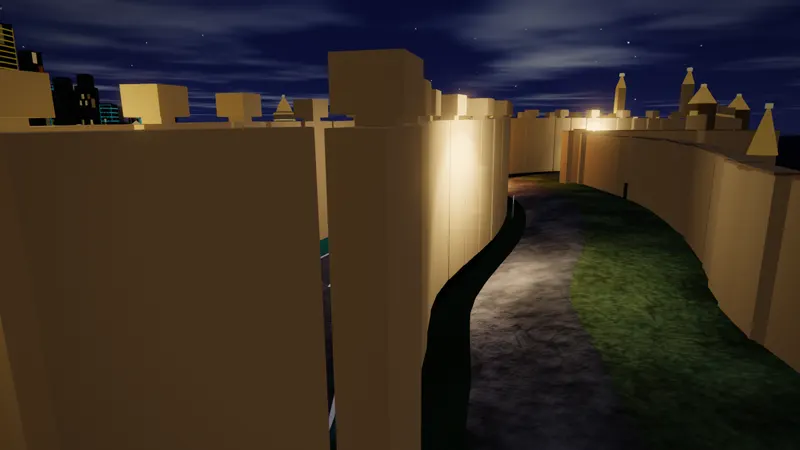
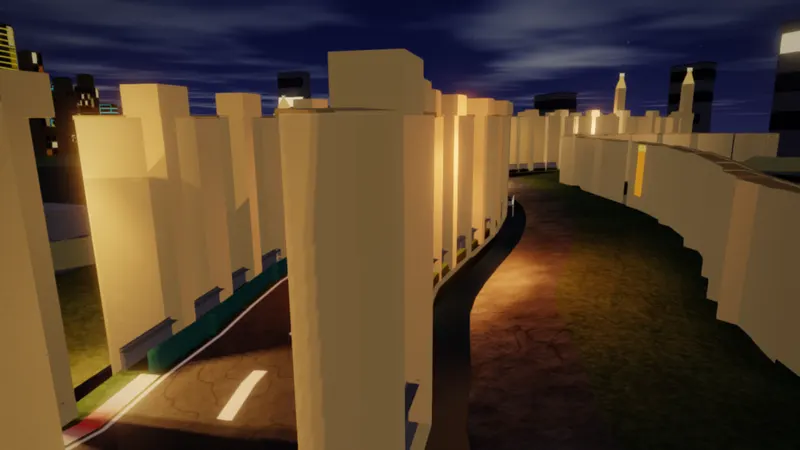
select: ship the re-shot stills per the #5223 decision; five circuits keep today's still
Decision (supersedes 565c425's "NOT APPROVED"):
https://github.com/brycejmurrin/f1-game/issues/5223#issuecomment-6759430378

- imola, estoril, watkins_glen, baku: today's 800 px still restored from the
  deploy tip, no 2x file (re-shot frame blocked by a tree or wall; #5342).
- zolder: today's still, no 2x file (300x150 capture; #5343).
- js/ui/select-screen.js STILL_1X_ONLY: those five get no srcset, so the
  phone makes one request, not a 404 then the 800 px file.
- tests/unit/hero-still-density.test.mjs: source pins replaced by VM runs of
  showStill / stillFiles; fails when a circuit has no still or a non-800x450
  one (a 300x150 capture), or when the folder and STILL_1X_ONLY disagree.

Claude-Session: https://claude.ai/code/session_01BEw9UyDojMy

diff --git a/js/ui/select-screen.js b/js/ui/select-screen.js
@@ -1144,9 +1144,11 @@ let stillToken = 0;
 // a DPR-3 phone (852 CSS px = 2556 device px) takes the 1600 px file, a DPR-1 window under 800 px the
 // small one. With the 800 px file alone the phone drew 0.33 source px per device px (#5223).
 const STILL_SIZES = "100vw";
-/** srcset for a circuit still (tools/gen/track-stills.mjs stillFiles); "" on Save-Data / 2G = the 800 px file only. */
+// Circuits that keep their 800 px still with no 2x file (#5223 decision): asking for a missing file costs a 404.
+const STILL_1X_ONLY = ["baku", "estoril", "imola", "watkins_glen", "zolder"];
+/** srcset for a circuit still (tools/gen/track-stills.mjs stillFiles); "" = the 800 px file only (Save-Data, 2G, no 2x file). */
 function stillSrcset(id, conn) {
-  if (conn && (conn.saveData || /2g$/.test(conn.effectiveType || ""))) return "";
+  if (STILL_1X_ONLY.includes(id) || (conn && (conn.saveData || /2g$/.test(conn.effectiveType || "")))) return "";
   const base = "assets/stills/" + id;
   return base + ".webp 800w, " + base + "-1600.webp 1600w";
 }

diff --git a/docs/changelog.d/hero-still-density-5223.md b/docs/changelog.d/hero-still-density-5223.md
@@ -1,1 +1,1 @@
-Improved: The circuit picture behind the track picker is sharp on phone screens (a 1600-pixel picture replaces the stretched 800-pixel one).
+Improved: The circuit picture behind the track picker is sharp on phone screens for 47 of 52 circuits (a 1600-pixel picture replaces the stretched 800-pixel one; Imola, Estoril, Watkins Glen, Baku and Zolder keep today's picture for now).
